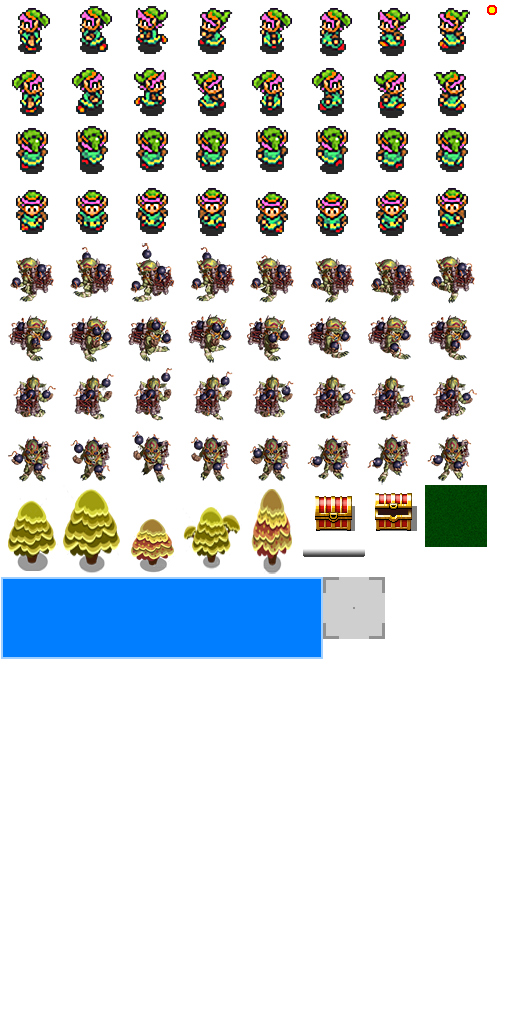
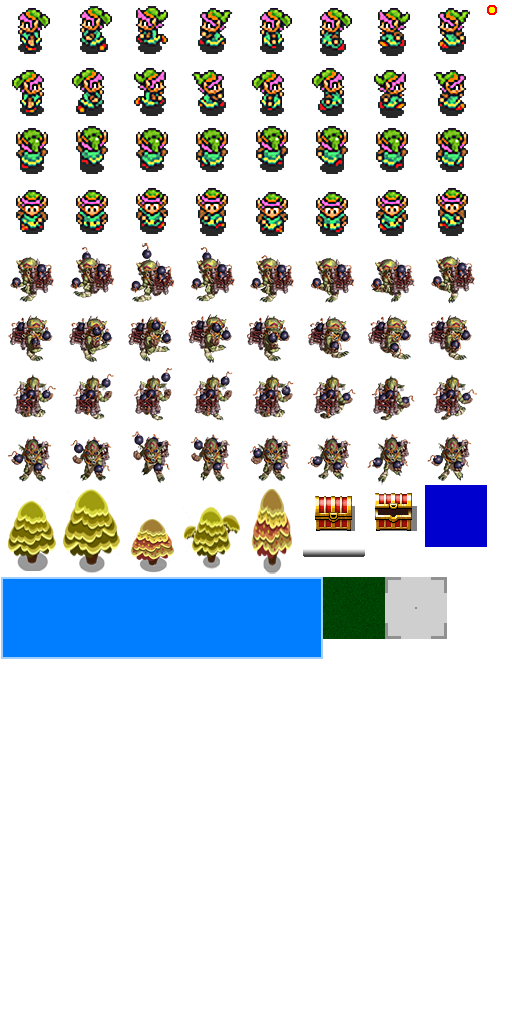
add 07 Task Lesson (Tasks 2-4)

Changed region(s): [[0.625, 0.5625, 0.875, 0.625], [0.8125, 0.4688, 0.9688, 0.5312]]

diff --git a/core/src/rpg/game/game/GameMap.java b/core/src/rpg/game/game/GameMap.java
@@ -1,5 +1,6 @@
 package rpg.game.game;
 
+import com.badlogic.gdx.graphics.Color;
 import com.badlogic.gdx.graphics.g2d.SpriteBatch;
 import com.badlogic.gdx.graphics.g2d.TextureAtlas;
 import com.badlogic.gdx.graphics.g2d.TextureRegion;
@@ -9,7 +10,13 @@ import rpg.game.helpers.Assets;
 
 public class GameMap {
     public enum CellType {
-        GRASS, WATER, TREE
+        GRASS(1), WATER(2), TREE(10);
+
+        int costOfMovement;
+
+        CellType(int costOfMovement) {
+            this.costOfMovement = costOfMovement;
+        }
     }
 
     public enum DropType {
@@ -41,7 +48,10 @@ public class GameMap {
     public static final int CELLS_X = 22;
     public static final int CELLS_Y = 12;
     public static final int CELL_SIZE = 60;
+
     public static final int FOREST_PERCENTAGE = 5;
+    public static final int WATER_PERCENTAGE = 10;
+
 
     public int getCellsX() {
         return CELLS_X;
@@ -54,6 +64,7 @@ public class GameMap {
     private Cell[][] data;
     private TextureRegion grassTexture;
     private TextureRegion goldTexture;
+    private TextureRegion waterTexture;
     private TextureRegion[] treesTextures;
 
     public GameMap() {
@@ -69,7 +80,16 @@ public class GameMap {
 
         }
 
+
+        int waterCount = (int) ((CELLS_X * CELLS_Y * WATER_PERCENTAGE) / 100.0f);
+        for (int i = 0; i < waterCount; i++) {
+            this.data[MathUtils.random(0, CELLS_X - 1)][MathUtils.random(0, CELLS_Y - 1)].changeType(CellType.WATER);
+
+        }
+
+
         this.grassTexture = Assets.getInstance().getAtlas().findRegion("grass");
+        this.waterTexture = Assets.getInstance().getAtlas().findRegion("water");
         this.goldTexture = Assets.getInstance().getAtlas().findRegion("chest").split(60, 60)[0][0];
         this.treesTextures = Assets.getInstance().getAtlas().findRegion("trees").split(60, 90)[0];
     }
@@ -78,7 +98,8 @@ public class GameMap {
         if (cx < 0 || cx > getCellsX() - 1 || cy < 0 || cy > getCellsY() - 1) {
             return false;
         }
-        if (data[cx][cy].type != CellType.GRASS) {
+
+        if (data[cx][cy].type == CellType.TREE) {
             return false;
         }
         return true;
@@ -91,6 +112,13 @@ public class GameMap {
                 if (data[i][j].type == CellType.TREE) {
                     batch.draw(treesTextures[data[i][j].index], i * CELL_SIZE, j * CELL_SIZE);
                 }
+
+
+                if (data[i][j].type == CellType.WATER) {
+                    batch.draw(waterTexture, i * CELL_SIZE, j * CELL_SIZE);
+                }
+
+
                 if (data[i][j].dropType == DropType.GOLD) {
                     batch.draw(goldTexture, i * CELL_SIZE, j * CELL_SIZE);
                 }
@@ -125,5 +153,11 @@ public class GameMap {
         }
         currentCell.dropType = DropType.NONE;
         currentCell.dropPower = 0;
+    }
+
+
+    public int costMoveInCell(int cellX, int cellY) {
+        int costMove = data[cellX][cellY].type.costOfMovement;
+        return costMove;
     }
 }

diff --git a/core/src/rpg/game/game/WorldRenderer.java b/core/src/rpg/game/game/WorldRenderer.java
@@ -6,6 +6,9 @@ import com.badlogic.gdx.graphics.GL20;
 import com.badlogic.gdx.graphics.g2d.BitmapFont;
 import com.badlogic.gdx.graphics.g2d.SpriteBatch;
 import com.badlogic.gdx.graphics.g2d.TextureRegion;
+import rpg.game.game.units.Hero;
+import rpg.game.game.units.Monster;
+import rpg.game.game.units.Unit;
 import rpg.game.helpers.Assets;
 import rpg.game.screens.ScreenManager;
 
@@ -35,6 +38,23 @@ public class WorldRenderer {
         gc.getProjectileController().render(batch);
         batch.setColor(1, 1, 1, 0.5f);
         batch.draw(cursorTexture, gc.getCursorX() * GameMap.CELL_SIZE, gc.getCursorY() * GameMap.CELL_SIZE);
+
+        Monster m = gc.getUnitController().getMonsterController().getMonsterInCell(gc.getCursorX(), gc.getCursorY());
+        if(m != null){
+            stringHelper.append("Dam.: ").append(m.getWeapon().damage).append("\n")
+                    .append("Rad.: ").append(m.getWeapon().radius);
+            font18.draw(batch, stringHelper, gc.getCursorX() * GameMap.CELL_SIZE, gc.getCursorY() * GameMap.CELL_SIZE);
+            stringHelper.setLength(0);
+        }
+
+        Hero h = gc.getUnitController().getHero();
+        if(gc.getUnitController().getHero().getCellX() == gc.getCursorX() && gc.getUnitController().getHero().getCellY() == gc.getCursorY()){
+            stringHelper.append("Dam.: ").append(h.getWeapon().damage).append("\n")
+                    .append("Rad.: ").append(h.getWeapon().radius);
+            font18.draw(batch, stringHelper, gc.getCursorX() * GameMap.CELL_SIZE, gc.getCursorY() * GameMap.CELL_SIZE);
+            stringHelper.setLength(0);
+        }
+
         batch.setColor(1, 1, 1, 1);
         batch.end();
 

diff --git a/core/src/rpg/game/game/units/Unit.java b/core/src/rpg/game/game/units/Unit.java
@@ -11,6 +11,7 @@ import rpg.game.game.GameMap;
 import rpg.game.game.Weapon;
 import rpg.game.helpers.Assets;
 import rpg.game.helpers.Poolable;
+import rpg.game.helpers.Utils;
 
 @Data
 public abstract class Unit implements Poolable {
@@ -122,10 +123,12 @@ public abstract class Unit implements Poolable {
         if (!gc.getGameMap().isCellPassable(argCellX, argCellY) || !gc.getUnitController().isCellFree(argCellX, argCellY)) {
             return;
         }
-        if (stats.movePoints > 0 && Math.abs(argCellX - cellX) + Math.abs(argCellY - cellY) == 1) {
+
+        if ((stats.movePoints - gc.getGameMap().costMoveInCell(argCellX, argCellY)) >= 0 && Math.abs(argCellX - cellX) + Math.abs(argCellY - cellY) == 1) {
             targetX = argCellX;
             targetY = argCellY;
             currentDirection = Direction.getMoveDirection(cellX, cellY, targetX, targetY);
+            stats.movePoints -= gc.getGameMap().costMoveInCell(argCellX, argCellY);
         }
     }
 
@@ -152,7 +155,6 @@ public abstract class Unit implements Poolable {
                 movementTime = 0;
                 cellX = targetX;
                 cellY = targetY;
-                stats.movePoints--;
                 gc.getGameMap().checkAndTakeDrop(this);
             }
         }
